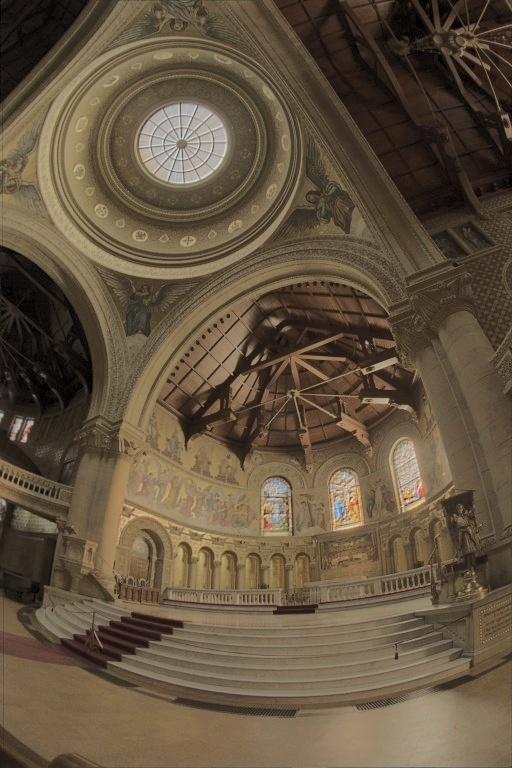
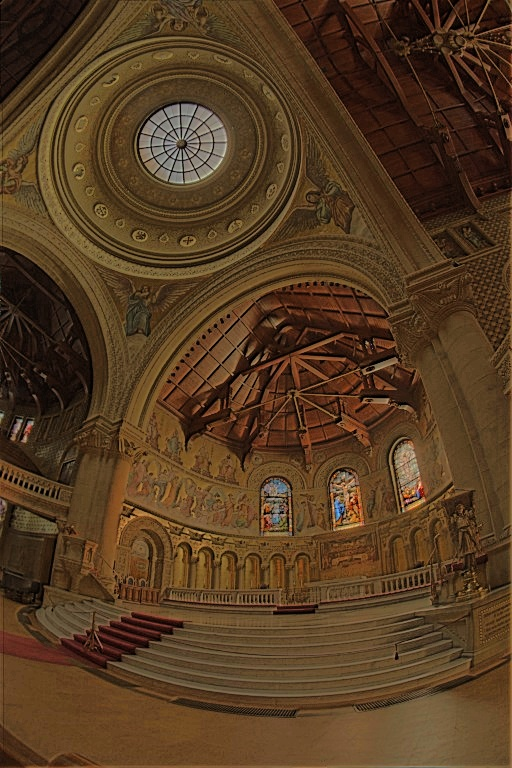
Changes in reinhard

diff --git a/1/reinhard.py b/1/reinhard.py
@@ -65,21 +65,22 @@ def getV(_img, s, a, phi):
 def reinhard_map(_img, best_only = False):
     def lum_map(_img, _ol, _nl):
         _ni = np.zeros(_img.shape)
-        _ni[:,:,0] = _img[:,:,0]*((_nl/(_ol+0.0001))**1.0)
-        _ni[:,:,1] = _img[:,:,1]*((_nl/(_ol+0.0001))**1.0)
-        _ni[:,:,2] = _img[:,:,2]*((_nl/(_ol+0.0001))**1.0)
-        return gamma_crr(_ni)
+        _ni[:,:,0] = _img[:,:,0]*((_nl/(_ol+0.0001))**0.75)
+        _ni[:,:,1] = _img[:,:,1]*((_nl/(_ol+0.0001))**0.75)
+        _ni[:,:,2] = _img[:,:,2]*((_nl/(_ol+0.0001))**0.75)
+        return _ni
+    _img = gamma_crr(_img)
     al1 = 1/(2*(2**0.5))
     _lum = scale(_img[:,:,0]*0.299 + _img[:,:,1]*0.587 + _img[:,:,0]*0.114, 255)
-    phi = 5
-    a = 0.36
+    phi = 10
+    a = 0.72
     _x = []
     _s = []
     for s in np.arange(0.1, 10, 0.1):
         _V = getV(_lum, s, a, phi)
         V1 = abs(apply_gaussian_filter(_lum, al1*s))
         _ld = _lum/(1+V1)
-        best = scale(gamma_crr(lum_map(_img, _lum, _ld)), 255)
+        best = scale(lum_map(_img, _lum, _ld), 255)
         if not best_only:
             write('./imgs/v1_'+str(round(s, 2))+'.jpg', best)
         if((best_only) and (_V.sum() < 0.5)): break
